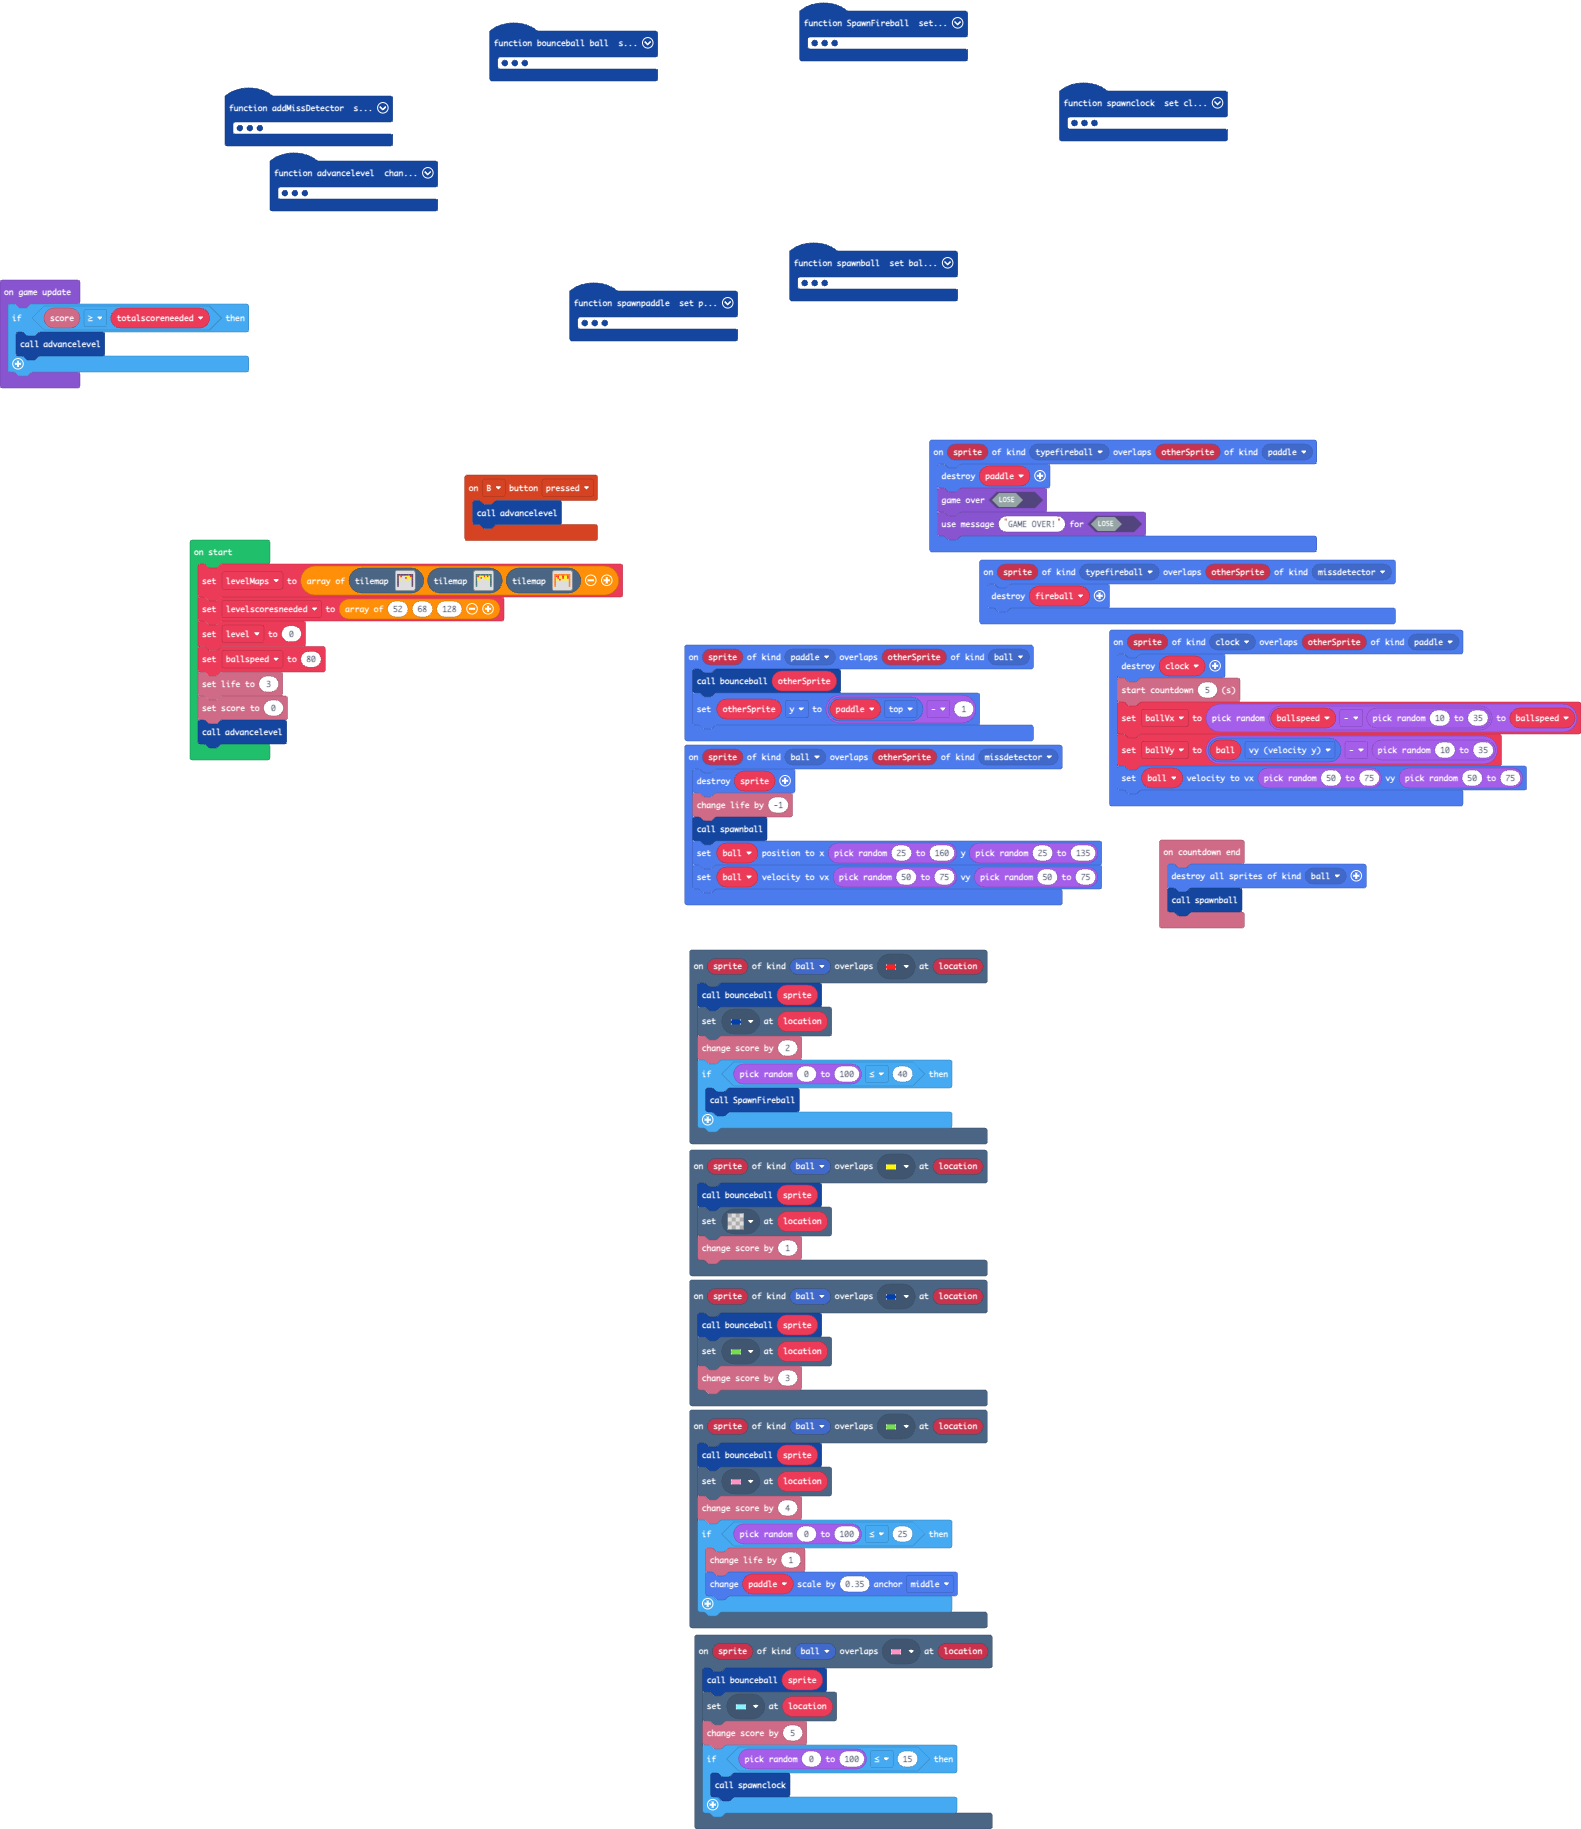
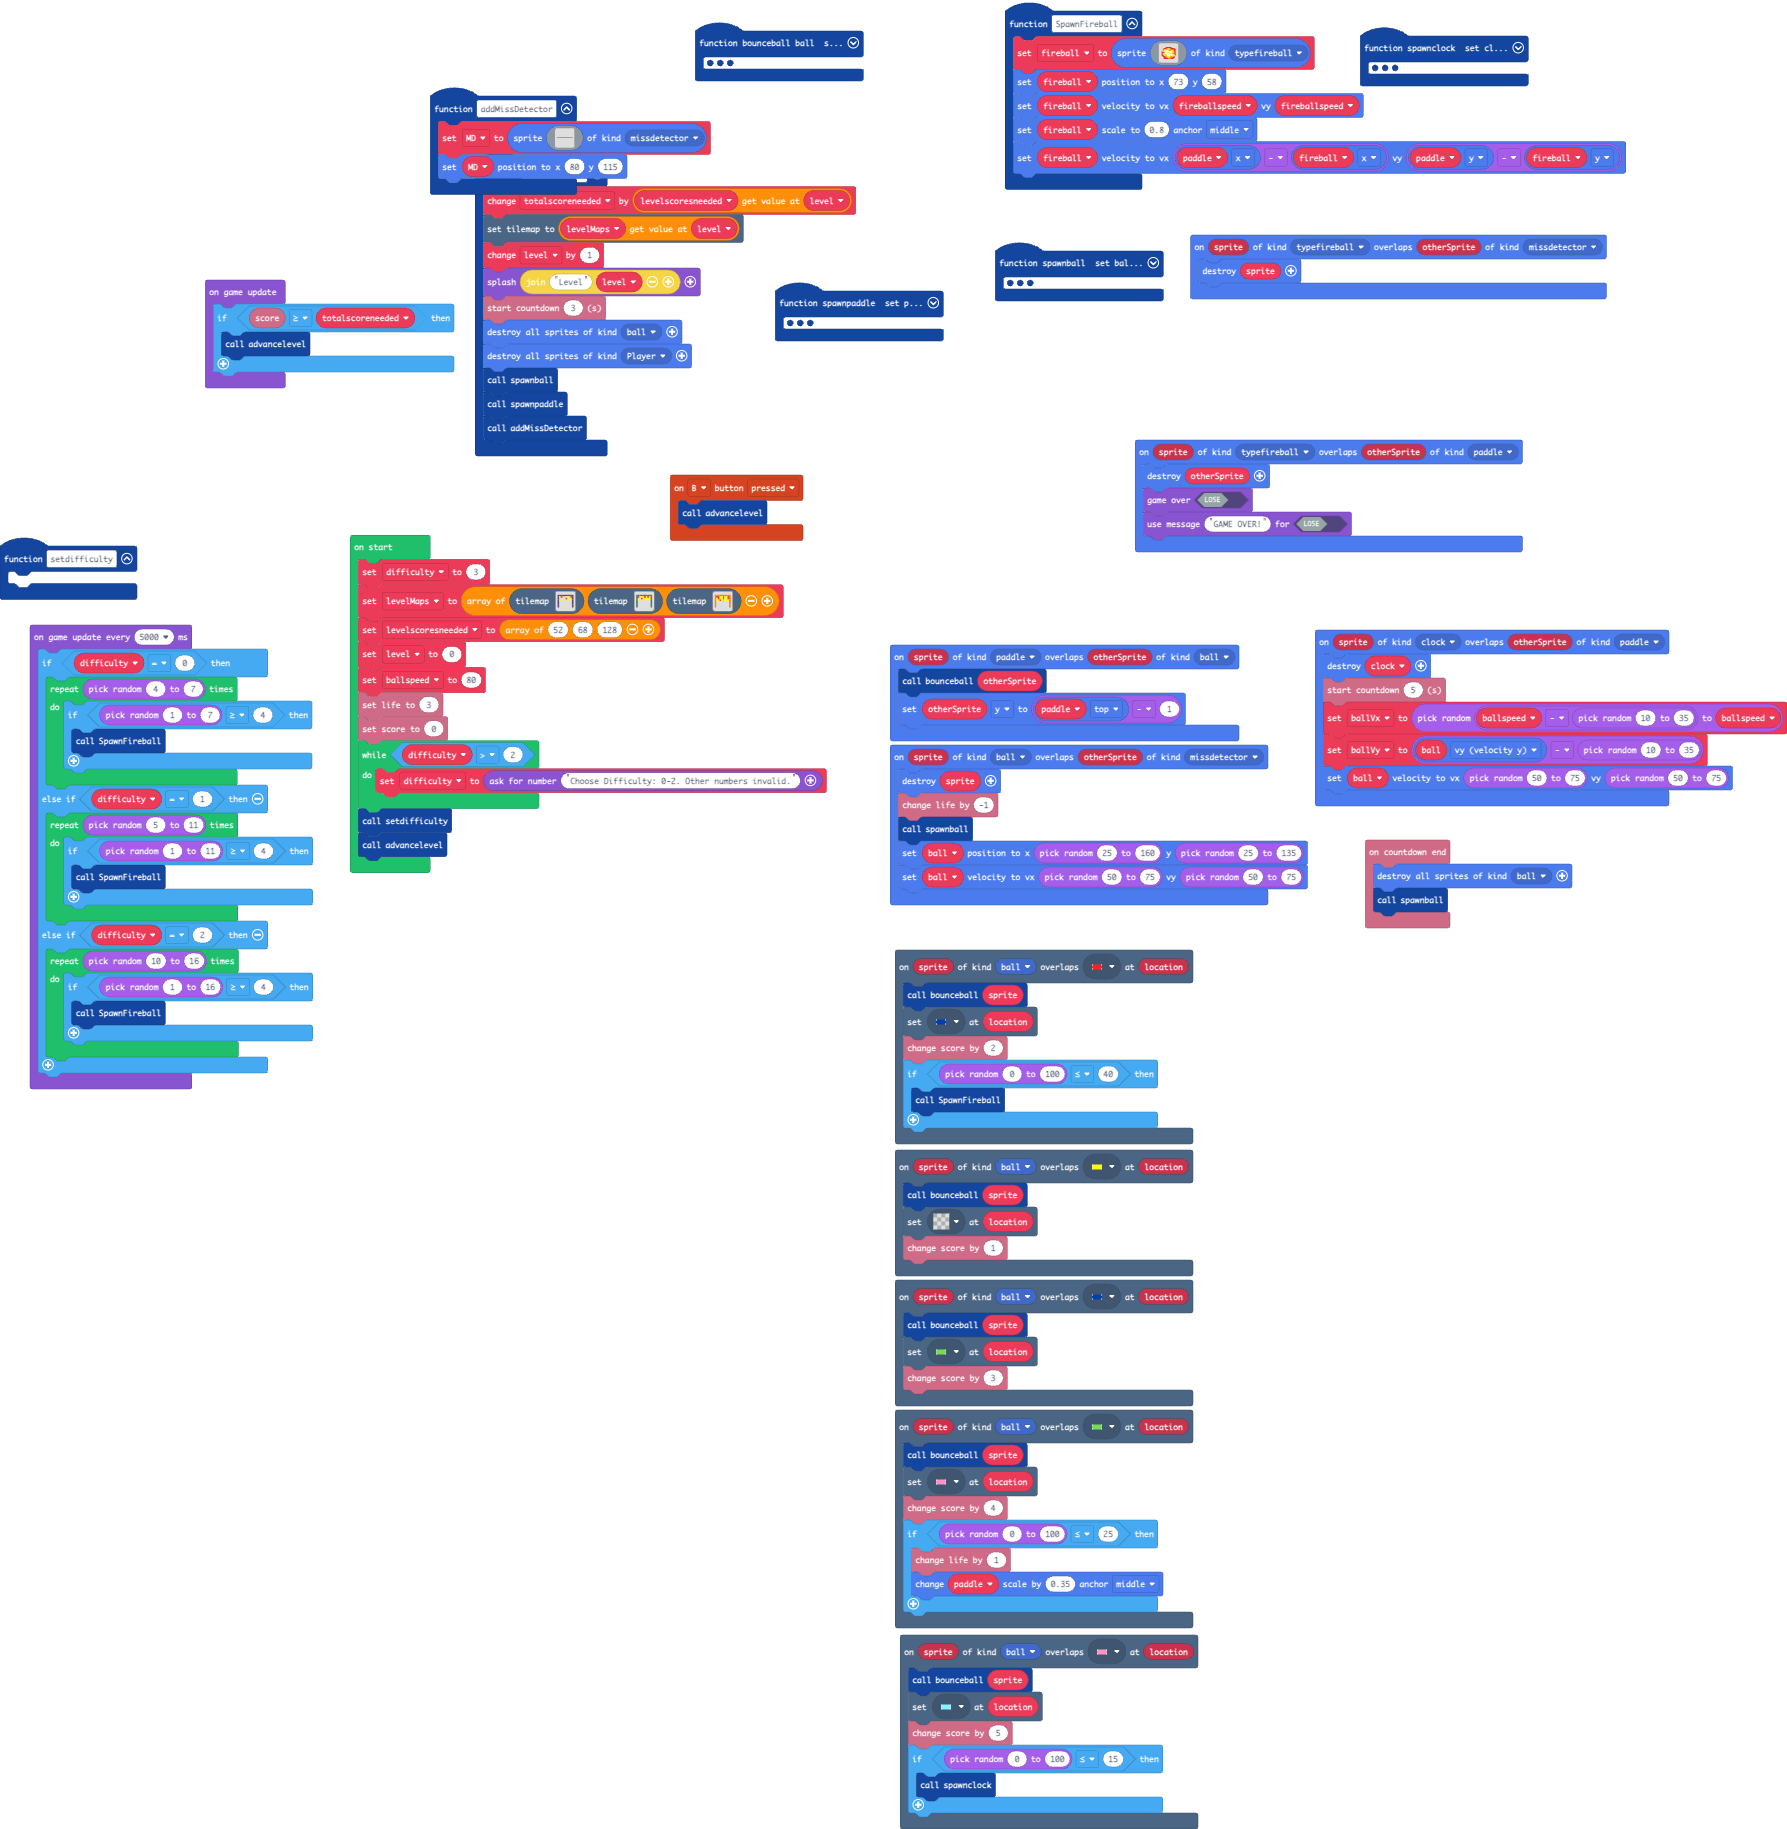
Update main.blocks, main.ts

Changed region(s): [[0.0, 0.0, 1.0, 1.0]]

diff --git a/main.ts b/main.ts
@@ -67,6 +67,9 @@ function spawnclock () {
     clock.setScale(0.85, ScaleAnchor.Middle)
     clock.setVelocity(paddle.x - clock.x, paddle.y - clock.y)
 }
+function setdifficulty () {
+	
+}
 scene.onOverlapTile(SpriteKind.ball, assets.tile`myTile2`, function (sprite, location) {
     bounceball(sprite)
     tiles.setTileAt(location, assets.tile`myTile0`)
@@ -80,7 +83,7 @@ info.onCountdownEnd(function () {
     spawnball()
 })
 sprites.onOverlap(SpriteKind.typefireball, SpriteKind.paddle, function (sprite, otherSprite) {
-    sprites.destroy(paddle)
+    sprites.destroy(otherSprite)
     game.gameOver(false)
     game.setGameOverMessage(false, "GAME OVER!")
 })
@@ -150,7 +153,7 @@ function spawnball () {
     ball.setScale(0.35, ScaleAnchor.Middle)
 }
 sprites.onOverlap(SpriteKind.typefireball, SpriteKind.missdetector, function (sprite, otherSprite) {
-    sprites.destroy(fireball)
+    sprites.destroy(sprite)
 })
 function SpawnFireball () {
     let fireballspeed = 0
@@ -174,8 +177,6 @@ function SpawnFireball () {
         `, SpriteKind.typefireball)
     fireball.setPosition(73, 58)
     fireball.setVelocity(fireballspeed, fireballspeed)
-    fireball.setStayInScreen(true)
-    fireball.setBounceOnWall(true)
     fireball.setScale(0.8, ScaleAnchor.Middle)
     fireball.setVelocity(paddle.x - fireball.x, paddle.y - fireball.y)
 }
@@ -215,15 +216,41 @@ let ballspeed = 0
 let level = 0
 let levelscoresneeded: number[] = []
 let levelMaps: tiles.TileMapData[] = []
+let difficulty = 3
 levelMaps = [tilemap`level5`, tilemap`level13`, tilemap`level19`]
 levelscoresneeded = [52, 68, 128]
 level = 0
 ballspeed = 80
 info.setLife(3)
 info.setScore(0)
+while (difficulty > 2) {
+    difficulty = game.askForNumber("Choose Difficulty: 0-2. Other numbers invalid.")
+}
+setdifficulty()
 advancelevel()
 game.onUpdate(function () {
     if (info.score() >= totalscoreneeded) {
         advancelevel()
+    }
+})
+game.onUpdateInterval(5000, function () {
+    if (difficulty == 0) {
+        for (let index = 0; index < randint(4, 7); index++) {
+            if (randint(1, 7) >= 4) {
+                SpawnFireball()
+            }
+        }
+    } else if (difficulty == 1) {
+        for (let index = 0; index < randint(5, 11); index++) {
+            if (randint(1, 11) >= 4) {
+                SpawnFireball()
+            }
+        }
+    } else if (difficulty == 2) {
+        for (let index = 0; index < randint(10, 16); index++) {
+            if (randint(1, 16) >= 4) {
+                SpawnFireball()
+            }
+        }
     }
 })
